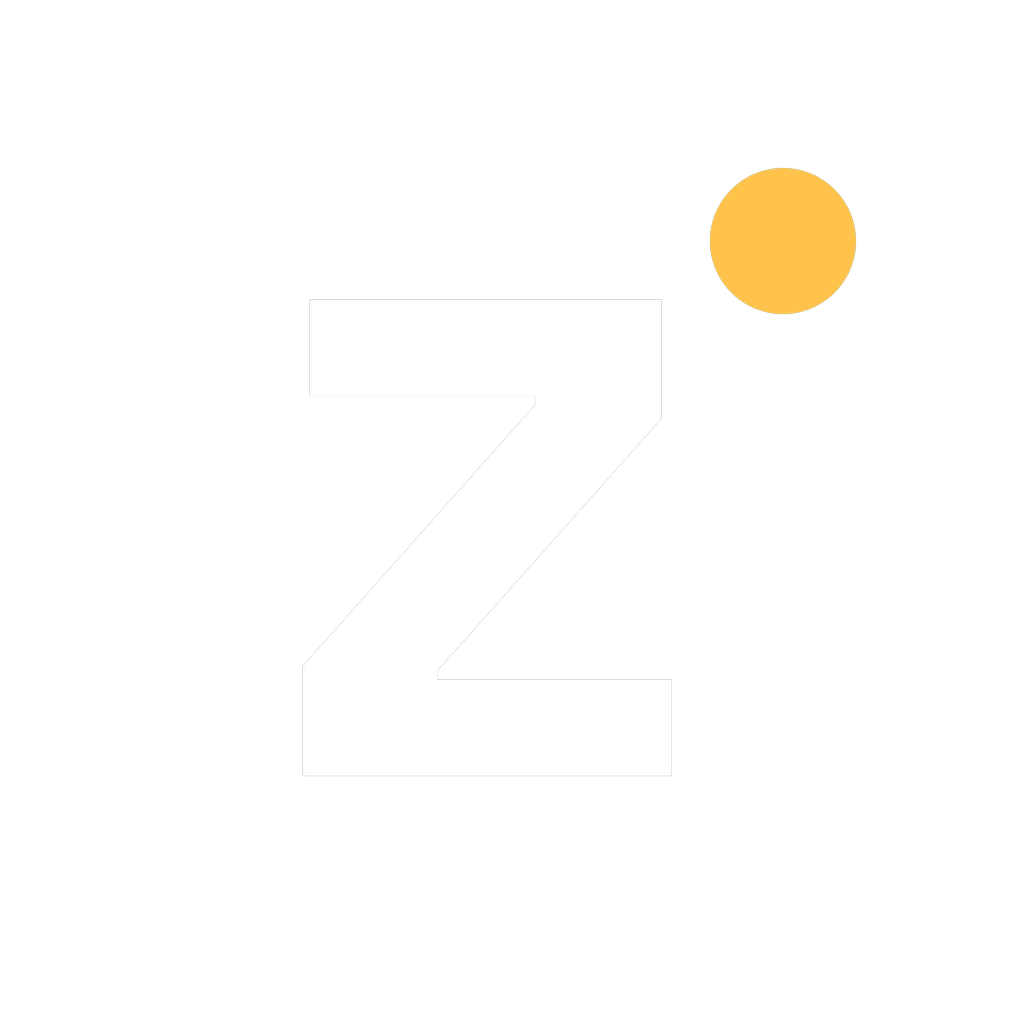
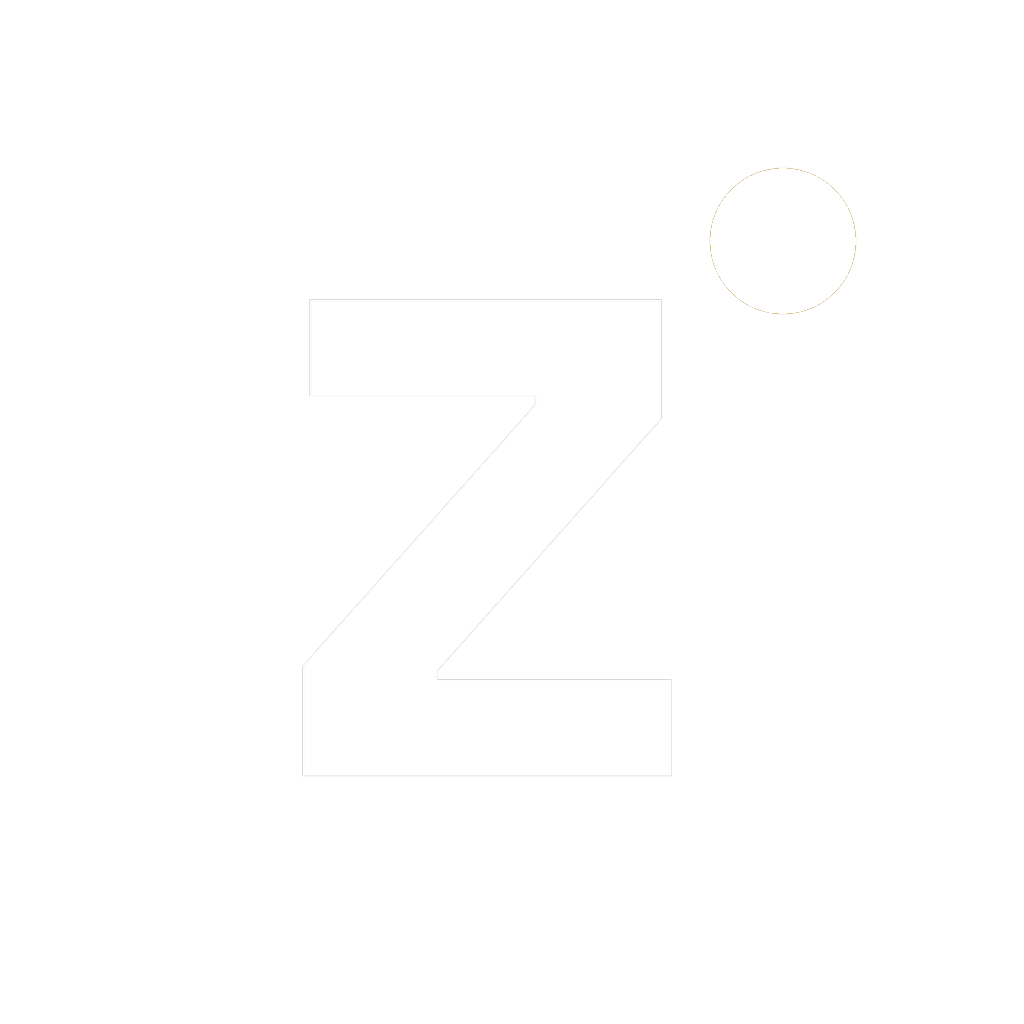
Rebrand: white/blue palette with HDR-style gradient + glow
Full rebrand from the red/gold Zynalive palette to white/blue, per
request. Since every screen reads colors through theme.ts's single c
object, changing the two palettes there recolors the whole app without
touching each screen individually.

- theme.ts: new dark/light palettes (deep navy -> electric blue ->
  sky blue). Gold stays as the coin/gift color only — that's an
  industry-standard "currency" cue (BIGO, TikTok, etc.), not the brand
  color, so coin UI is unaffected. Added a 3-stop gradient token and a
  glow shadow color for the new HDR look.
- Installed expo-linear-gradient; Button's primary variant and
  LiveBadge now render the gradient + a soft glow shadow instead of a
  flat fill — the two most-reused "primary action" surfaces app-wide.
- Replaced the remaining hardcoded old-brand hex values (#FF6B85 pink
  accents in FollowingLive's live ring and create.tsx's required-cover
  state) with the new accent color.
- Regenerated icon.png, the Android adaptive icon (background +
  foreground), splash-icon.png, logo.png and favicon.png with the new
  gradient + white mark (script-generated via Pillow, color-keyed off
  the original flat red/white/gold pixels so the Z mark and layout are
  pixel-identical, just recolored). Updated logo-animated.svg's
  gradient/stroke colors to match. app.json's splash and adaptive-icon
  backgroundColor fields updated to the new deep navy/blue.

Claude-Session: https://claude.ai/code/session_01QsHr13oxXynFpyapaoVEwR

Changed region(s): [[0.6875, 0.1562, 0.8438, 0.3125]]

diff --git a/src/components/ui.tsx b/src/components/ui.tsx
@@ -1,5 +1,6 @@
 import Ionicons from '@expo/vector-icons/Ionicons';
 import { Image } from 'expo-image';
+import { LinearGradient } from 'expo-linear-gradient';
 import type { ComponentProps, ReactNode } from 'react';
 import {
   ActivityIndicator,
@@ -70,7 +71,7 @@ export function Button({ title, variant = 'primary', size = 'md', loading, icon,
     primary: c.primaryText, danger: c.primaryText, gold: c.onGold, secondary: c.text, ghost: c.textMuted, outline: c.violetText,
   }[variant];
   const border = variant === 'secondary' ? c.border : variant === 'outline' ? c.violetBorder : 'transparent';
-  return (
+  const button = (
     <PressScale
       accessibilityRole="button"
       accessibilityState={{ disabled: !!(disabled || loading), busy: !!loading }}
@@ -80,7 +81,7 @@ export function Button({ title, variant = 'primary', size = 'md', loading, icon,
           minHeight: size === 'md' ? 52 : 40,
           paddingHorizontal: size === 'md' ? 22 : 16,
           borderRadius: radius.pill,
-          backgroundColor: bg,
+          backgroundColor: variant === 'primary' ? 'transparent' : bg,
           alignItems: 'center',
           justifyContent: 'center',
           flexDirection: 'row',
@@ -88,15 +89,24 @@ export function Button({ title, variant = 'primary', size = 'md', loading, icon,
           borderWidth: border === 'transparent' ? 0 : 1,
           borderColor: border,
           opacity: disabled ? 0.45 : 1,
+          overflow: 'hidden',
         },
         style,
       ]}
       {...rest}
     >
+      {variant === 'primary' && (
+        <LinearGradient colors={c.gradient} start={{ x: 0, y: 0 }} end={{ x: 1, y: 1 }} style={StyleSheet.absoluteFill} />
+      )}
       {loading ? <ActivityIndicator color={fg} /> : icon}
       {!loading && <Text variant="label" color={fg} style={{ fontSize: size === 'md' ? 16 : 14 }}>{title}</Text>}
     </PressScale>
   );
+  // Primary CTAs get an HDR-style glow — shadow goes on an outer wrapper since
+  // overflow:hidden (needed to clip the gradient to the pill shape) would
+  // otherwise clip the shadow too on iOS.
+  if (variant !== 'primary' || disabled) return button;
+  return <View style={{ shadowColor: c.glow, shadowOpacity: 1, shadowRadius: 16, shadowOffset: { width: 0, height: 6 }, elevation: 8, borderRadius: radius.pill }}>{button}</View>;
 }
 
 /** Round 44pt icon-only button (header actions). */
@@ -216,9 +226,13 @@ export function LiveBadge({ viewers }: { viewers?: number }) {
   const { c } = useTheme();
   return (
     <View style={{ flexDirection: 'row', alignItems: 'center', gap: 6 }}>
-      <View style={{ backgroundColor: c.live, paddingHorizontal: 8, paddingVertical: 3, borderRadius: 6, flexDirection: 'row', alignItems: 'center', gap: 5 }}>
-        <Pulse min={0.6} max={1.15} period={1100}><View style={{ width: 6, height: 6, borderRadius: 3, backgroundColor: '#fff' }} /></Pulse>
-        <Text variant="caption" color="#fff" style={{ fontSize: 11, fontWeight: '700', letterSpacing: 0.6 }}>LIVE</Text>
+      <View style={{ borderRadius: 6, shadowColor: c.glow, shadowOpacity: 1, shadowRadius: 8, shadowOffset: { width: 0, height: 2 }, elevation: 4 }}>
+        <View style={{ borderRadius: 6, overflow: 'hidden' }}>
+          <LinearGradient colors={c.gradient} start={{ x: 0, y: 0 }} end={{ x: 1, y: 0 }} style={{ paddingHorizontal: 8, paddingVertical: 3, flexDirection: 'row', alignItems: 'center', gap: 5 }}>
+            <Pulse min={0.6} max={1.15} period={1100}><View style={{ width: 6, height: 6, borderRadius: 3, backgroundColor: '#fff' }} /></Pulse>
+            <Text variant="caption" color="#fff" style={{ fontSize: 11, fontWeight: '700', letterSpacing: 0.6 }}>LIVE</Text>
+          </LinearGradient>
+        </View>
       </View>
       {viewers !== undefined && <ViewerCount count={viewers} />}
     </View>

diff --git a/src/app/(tabs)/create.tsx b/src/app/(tabs)/create.tsx
@@ -147,21 +147,21 @@ export default function CreateScreen() {
               <Text variant="caption" color={lc.textMuted}>ID {profile?.user_number}{verification === 'approved' ? ' · Verified' : ''}</Text>
             </Row>
             <Pressable onPress={pickCover} disabled={uploading || offline} accessibilityRole="button" accessibilityLabel={cover ? 'Change cover picture' : 'Add cover picture, required'} style={{ flexDirection: 'row', gap: 12, alignItems: 'center' }}>
-              <View style={{ width: 72, height: 96, borderRadius: 12, overflow: 'hidden', borderWidth: cover ? 0 : 2, borderStyle: 'dashed', borderColor: '#FF6B85', backgroundColor: lc.surfaceRaised, alignItems: 'center', justifyContent: 'center' }}>
+              <View style={{ width: 72, height: 96, borderRadius: 12, overflow: 'hidden', borderWidth: cover ? 0 : 2, borderStyle: 'dashed', borderColor: lc.accent, backgroundColor: lc.surfaceRaised, alignItems: 'center', justifyContent: 'center' }}>
                 {cover ? (
                   <Pop key={cover} from={0.7}><Image source={cover} style={{ width: 72, height: 96 }} contentFit="cover" /></Pop>
                 ) : (
-                  <Ionicons name={uploading ? 'cloud-upload-outline' : 'image-outline'} size={26} color="#FF6B85" />
+                  <Ionicons name={uploading ? 'cloud-upload-outline' : 'image-outline'} size={26} color={lc.accent} />
                 )}
               </View>
               <View style={{ flex: 1, gap: 3 }}>
                 <Row gap={6}>
                   <Text variant="label" color={lc.text}>Cover picture</Text>
-                  {!cover && <Text variant="caption" color="#FF6B85" style={{ fontWeight: '700' }}>Required</Text>}
+                  {!cover && <Text variant="caption" color={lc.accent} style={{ fontWeight: '700' }}>Required</Text>}
                 </Row>
                 <Text variant="caption" color={lc.textMuted}>{uploading ? 'Uploading…' : cover ? 'Shown on Home and in search. Tap to change.' : 'Add a cover to go live. It shows on Home and in search.'}</Text>
               </View>
-              <Ionicons name={cover ? 'create-outline' : 'add-circle'} size={22} color={cover ? lc.textMuted : '#FF6B85'} />
+              <Ionicons name={cover ? 'create-outline' : 'add-circle'} size={22} color={cover ? lc.textMuted : lc.accent} />
             </Pressable>
             <Input label="Stream title" value={title} onChangeText={setTitle} placeholder="What are you streaming?" maxLength={80} style={{ backgroundColor: lc.surfaceRaised, borderColor: '#3A3547', color: lc.text, minHeight: 44 }} />
             <View style={{ gap: 8 }}>

diff --git a/src/lib/theme.ts b/src/lib/theme.ts
@@ -56,20 +56,24 @@ export function bodyFont(weight?: string | number | null) {
   return w >= 600 ? fonts.bold : w >= 500 ? fonts.medium : fonts.regular;
 }
 
+// White/blue rebrand (was red/gold). Gold stays as the coin/gift color only —
+// that's a semantic "currency" cue used industry-wide (BIGO, TikTok, etc.),
+// not the app's brand color, so it doesn't change with this rebrand.
+type Gradient = readonly [string, string, string];
 const dark = {
-  background: '#0E0D12',
-  surface: '#17151E',
-  surfaceRaised: '#1C1A24',
-  border: '#2C2937',
-  divider: '#26232F',
-  tabBar: '#15131B',
-  text: '#F4F1F8',
-  textMuted: '#B9B3C6',
-  textFaint: '#8C8699',
-  primary: '#D81E45',
+  background: '#080B14',
+  surface: '#101624',
+  surfaceRaised: '#161D2E',
+  border: '#232C40',
+  divider: '#1C2334',
+  tabBar: '#0A0F1C',
+  text: '#F2F6FF',
+  textMuted: '#AEB9D4',
+  textFaint: '#7C89AC',
+  primary: '#2E6BFF',
   primaryText: '#FFFFFF',
-  accent: '#FFC24B',
-  live: '#D81E45',
+  accent: '#7FD1FF',
+  live: '#2E6BFF',
   gold: '#FFC24B',
   onGold: '#2A1A00',
   goldSurface: '#2A2110',
@@ -83,22 +87,26 @@ const dark = {
   warning: '#FFC24B',
   danger: '#FF5A61',
   overlay: 'rgba(0,0,0,0.6)',
+  // HDR-style gradient + glow tokens for hero surfaces (buttons, live badge,
+  // balance cards, auth hero) — see GradientCard/GlowButton in ui.tsx.
+  gradient: ['#0A2540', '#2E6BFF', '#7FD1FF'] as Gradient,
+  glow: 'rgba(46,107,255,0.55)',
 };
 
 const light: typeof dark = {
-  background: '#F7F5FA',
+  background: '#F4F8FF',
   surface: '#FFFFFF',
-  surfaceRaised: '#F0EDF4',
-  border: '#E2DDE9',
-  divider: '#ECE8F1',
+  surfaceRaised: '#EAF1FF',
+  border: '#D7E3FA',
+  divider: '#E3EAFB',
   tabBar: '#FFFFFF',
-  text: '#16131F',
-  textMuted: '#5E5870',
-  textFaint: '#716B80',
-  primary: '#C81A3F',
+  text: '#0B1220',
+  textMuted: '#4A5578',
+  textFaint: '#6B7694',
+  primary: '#2258E6',
   primaryText: '#FFFFFF',
-  accent: '#B7791F',
-  live: '#D81E45',
+  accent: '#2E6BFF',
+  live: '#2258E6',
   gold: '#FFC24B',
   onGold: '#2A1A00',
   goldSurface: '#FFF4DA',
@@ -112,6 +120,8 @@ const light: typeof dark = {
   warning: '#B7791F',
   danger: '#D9363E',
   overlay: 'rgba(0,0,0,0.45)',
+  gradient: ['#DCE9FF', '#2258E6', '#0A2540'] as Gradient,
+  glow: 'rgba(34,88,230,0.35)',
 };
 
 export type Palette = typeof dark;

diff --git a/src/components/FollowingLive.tsx b/src/components/FollowingLive.tsx
@@ -19,7 +19,7 @@ export function LiveAvatar({ uri, name, size }: { uri?: string | null; name: str
     <View style={{ width: size, height: size, alignItems: 'center', justifyContent: 'center' }}>
       <Ripple size={size} color={c.primary} period={1600} ring />
       <Ripple size={size} color={c.primary} period={1600} delay={800} ring />
-      <Spin style={{ position: 'absolute', width: size, height: size, borderRadius: size / 2, borderWidth: ring, borderTopColor: c.primary, borderRightColor: c.gold, borderBottomColor: '#FF6B85', borderLeftColor: c.primary }} />
+      <Spin style={{ position: 'absolute', width: size, height: size, borderRadius: size / 2, borderWidth: ring, borderTopColor: c.primary, borderRightColor: c.gold, borderBottomColor: c.accent, borderLeftColor: c.primary }} />
       <Avatar uri={uri} name={name} size={size - ring * 2 - 6} />
       <View style={{ position: 'absolute', bottom: -8 }}>
         <Pulse min={1} max={1.1} period={1200}>

diff --git a/src/components/AuthForm.tsx b/src/components/AuthForm.tsx
@@ -47,7 +47,7 @@ export function clerkErrorMessage(err: unknown) {
   return err instanceof Error ? err.message : 'Something went wrong';
 }
 
-const TILES = ['#5B2A4A', '#1F4A5C', '#4A2F6B', '#6B3A22'];
+const TILES = ['#0A2540', '#1B4FBF', '#2E6BFF', '#7FD1FF'];
 
 /** Tiles + wordmark + tagline from the design canvas. */
 export function AuthHero({ size = 44 }: { size?: number }) {
